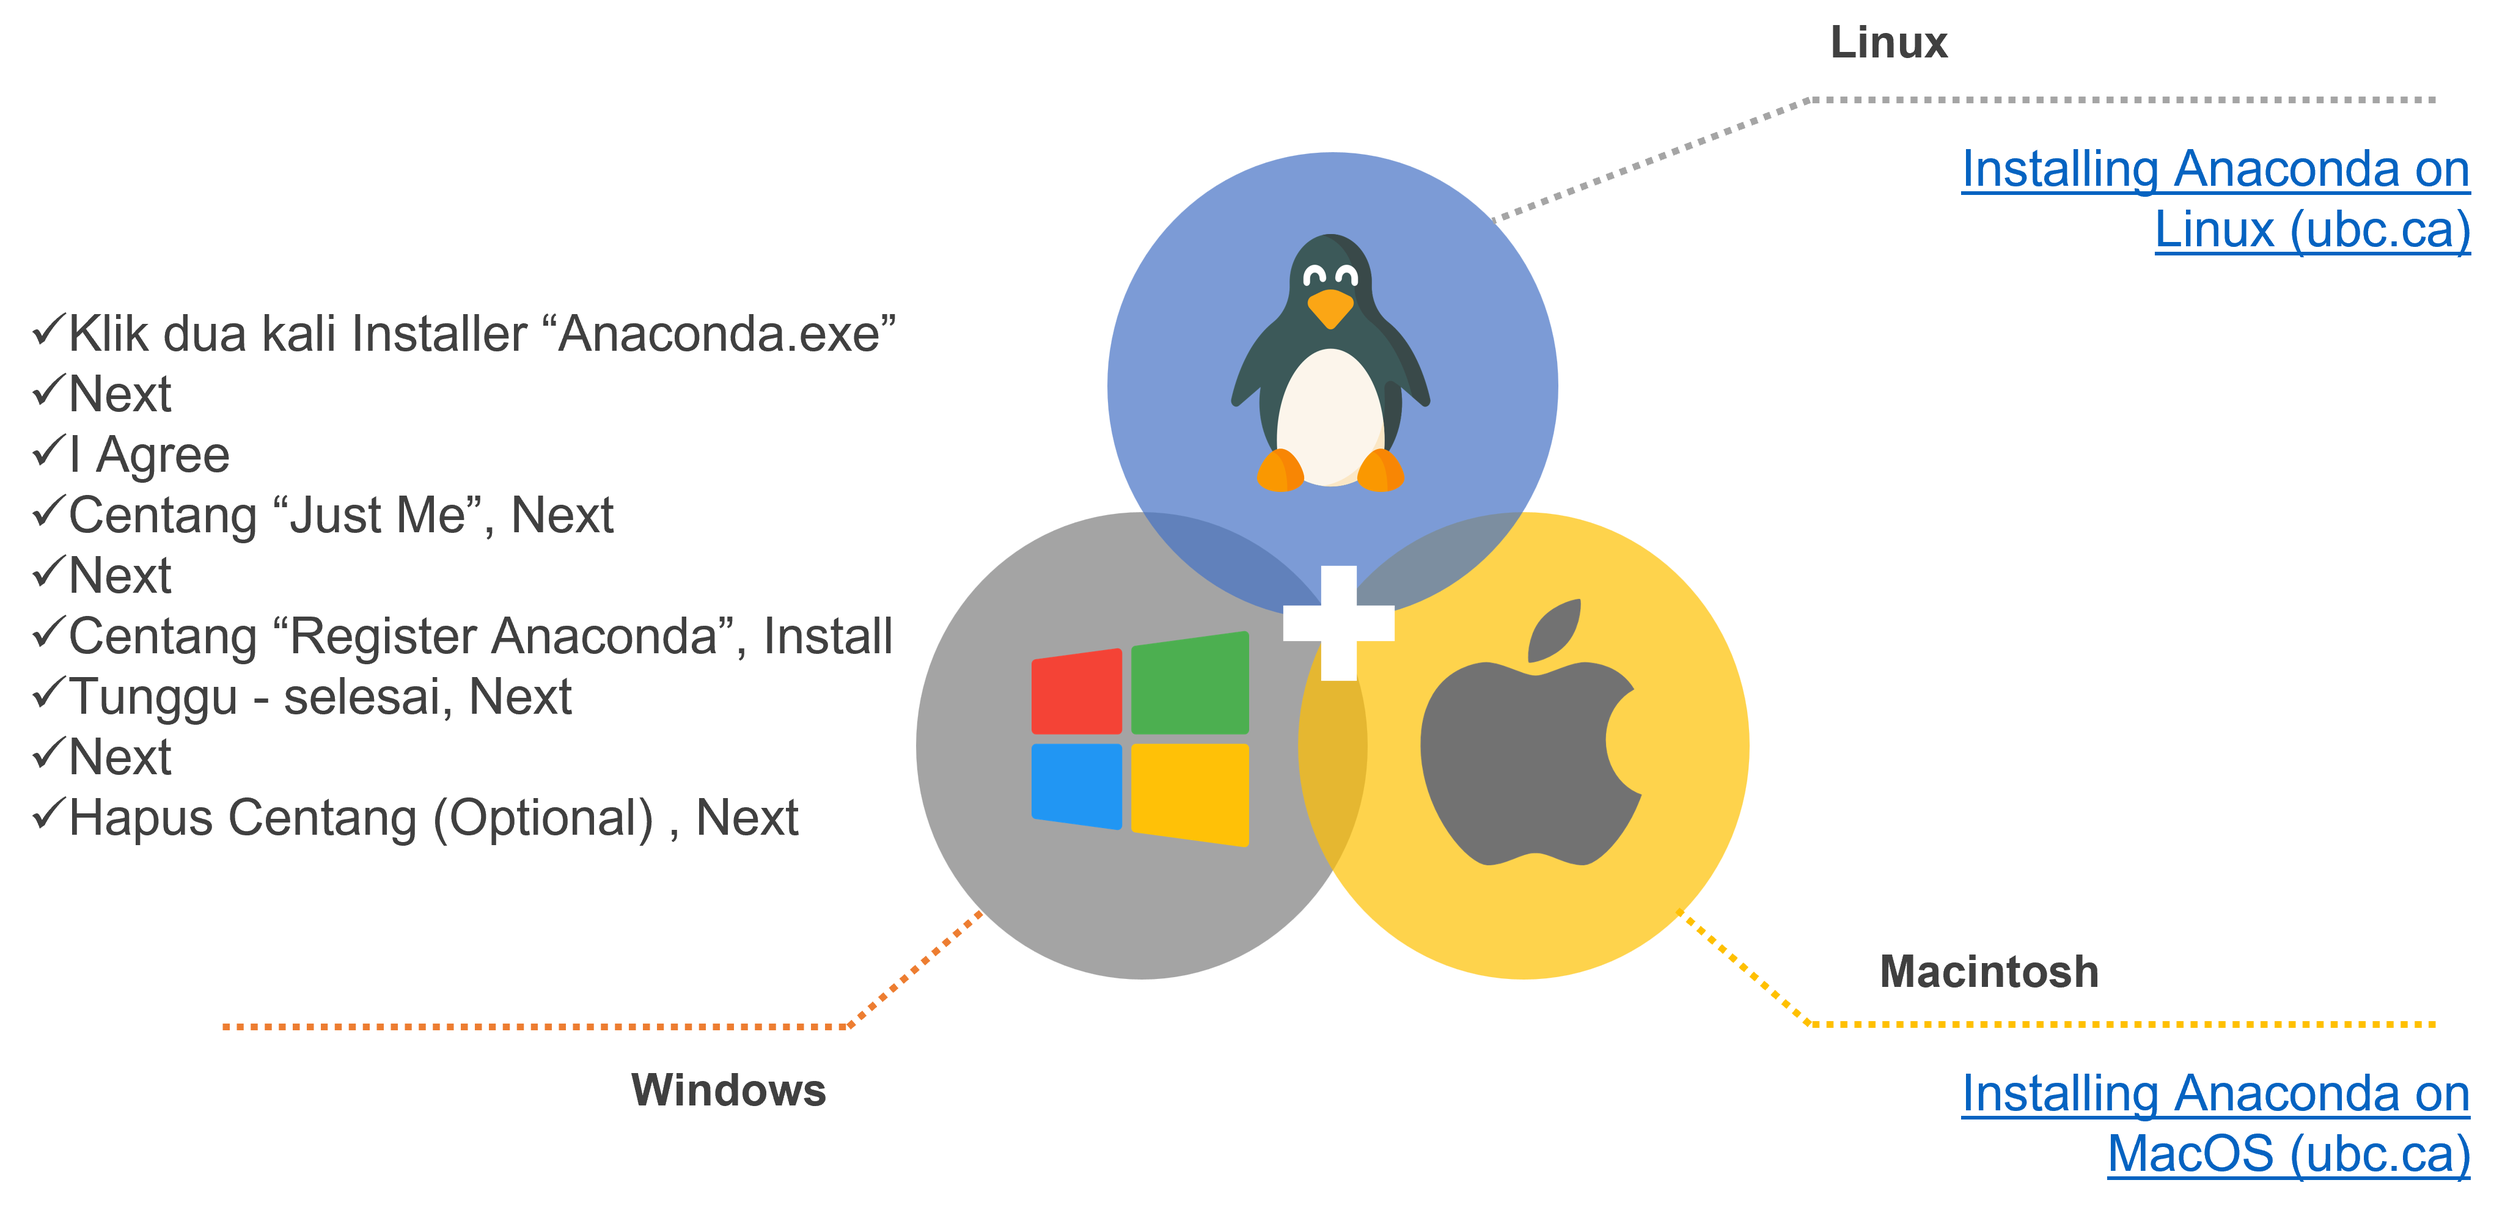
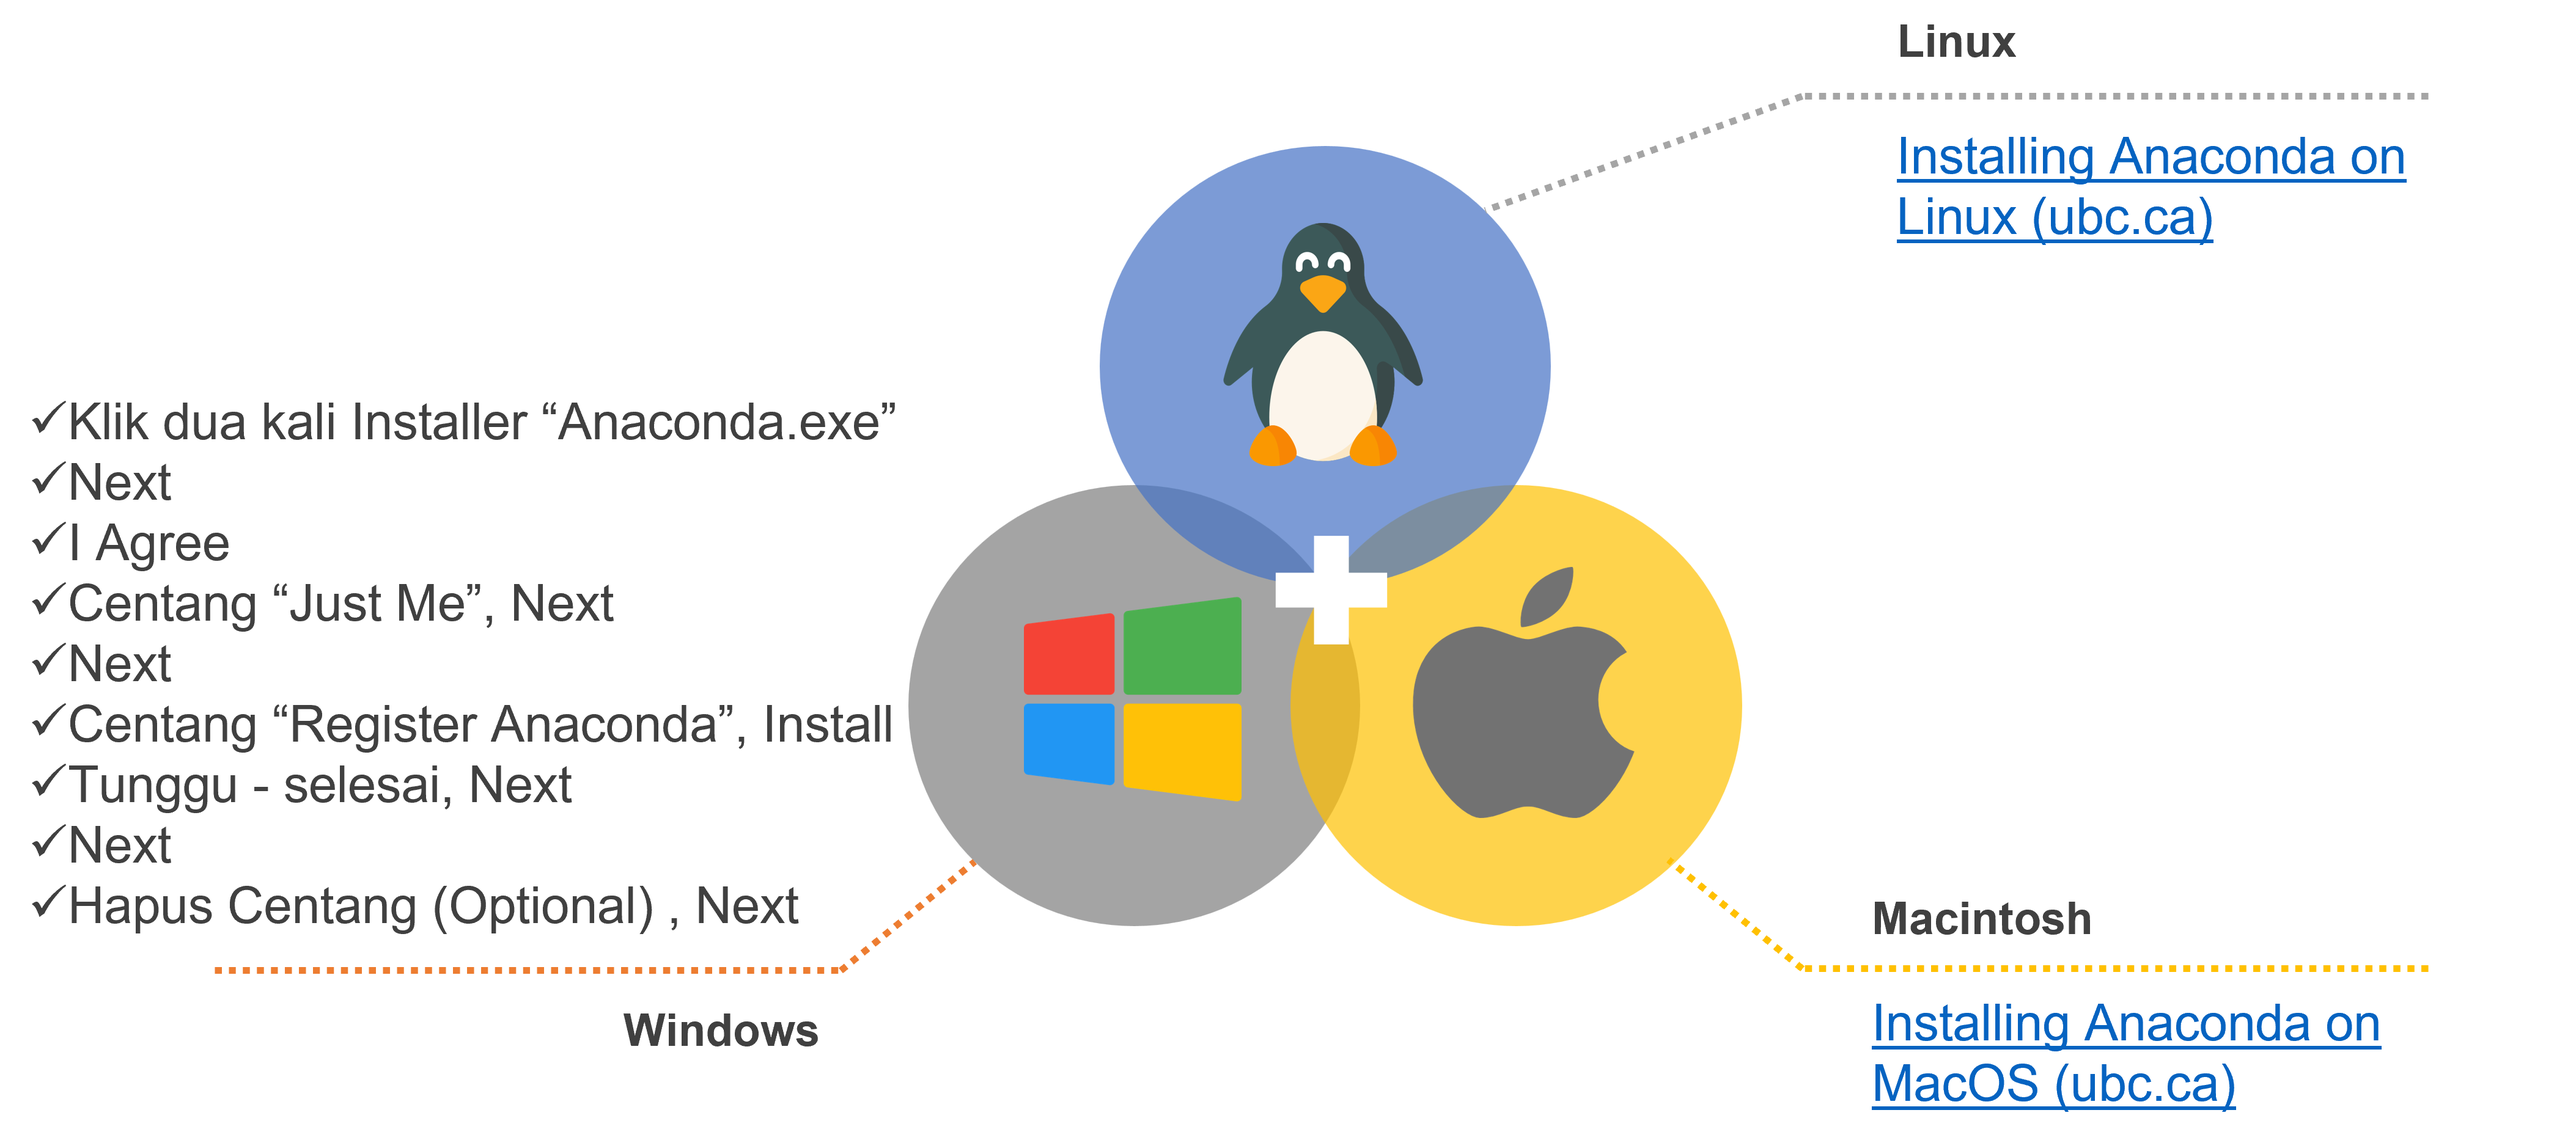
cmmm

diff --git a/_book/pengenalan-python.html b/_book/pengenalan-python.html
@@ -233,7 +233,7 @@ code span.wa { color: #60a0b0; font-weight: bold; font-style: italic; } /* Warni
 <h2><span class="header-section-number">1.4</span> Install Python<a href="pengenalan-python.html#install-python" class="anchor-section" aria-label="Anchor link to header"></a></h2>
 <p>Python memiliki banyak versi, dan sangat mungkin jika di dalam Local Machine kita (komputer) memiliki beberapa versi yang berbeda. Kunjungi <a href="https://www.anaconda.com/products/distribution">Anaconda.com/downloads</a> dan Installer sesuai dengan Operating System (OS) Komputer anda.</p>
 <center>
-<img src="https://github.com/sainzdata/Py_JNE/blob/main/images/Install_Conda.png?raw=true" width=740" height="280">
+<img src="https://github.com/sainzdata/Py_JNE/blob/main/images/Install_Conda.png?raw=true" width=650" height="300">
 </center>
 </div>
 <div id="sintaks-dasar" class="section level2 hasAnchor" number="1.5">
